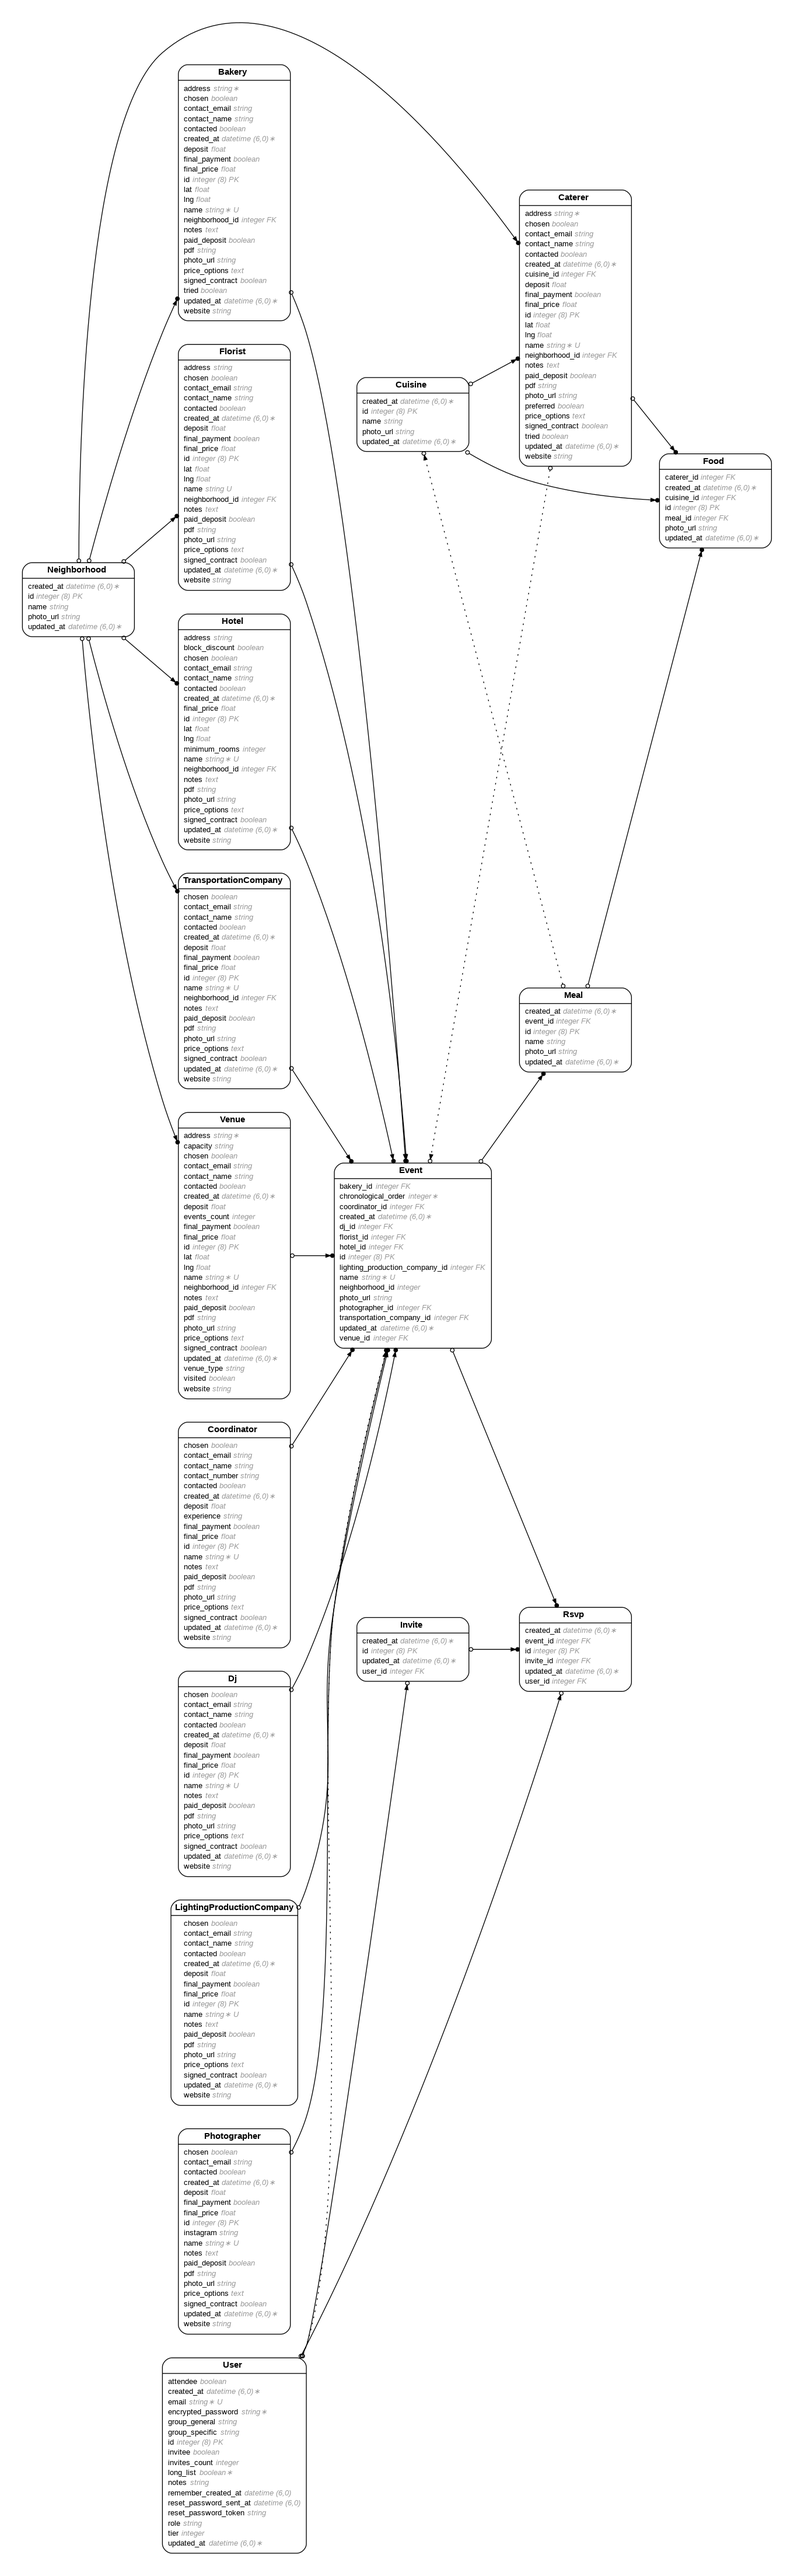
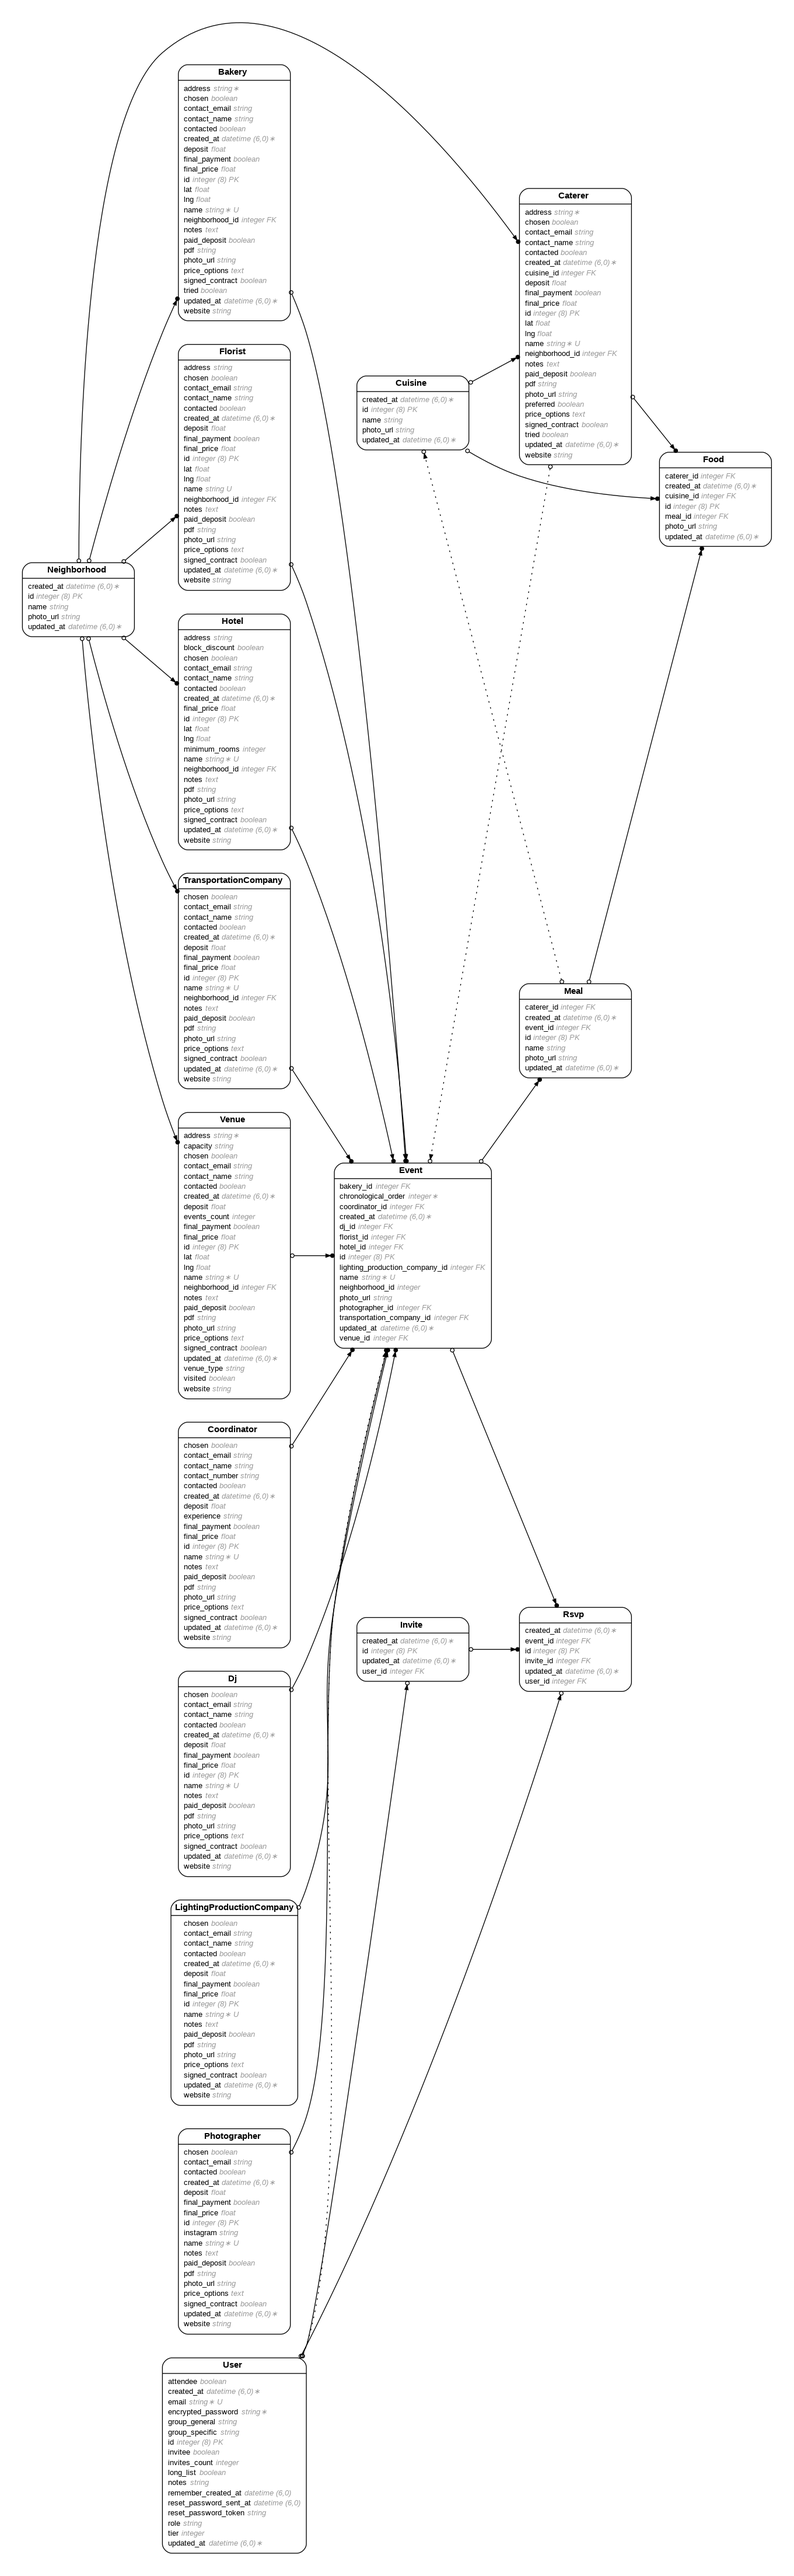
Adding caterer ID to meals, fixing meals index, making Invites and RSVP controllers active again

diff --git a/app/controllers/rsvps_controller.rb b/app/controllers/rsvps_controller.rb
@@ -1,60 +1,60 @@
-# class RsvpsController < ApplicationController
-#   skip_before_action(:authenticate_user!, { :only => [:index] })
+class RsvpsController < ApplicationController
+  skip_before_action(:authenticate_user!, { :only => [:index] })
 
-#   def index
-#     matching_rsvps = Rsvp.all
+  def index
+    matching_rsvps = Rsvp.all
 
-#     @list_of_rsvps = matching_rsvps.order({ :created_at => :desc })
+    @list_of_rsvps = matching_rsvps.order({ :created_at => :desc })
 
-#     render({ :template => "rsvps/index" })
-#   end
+    render({ :template => "rsvps/index" })
+  end
 
-#   def show
-#     the_id = params.fetch("path_id")
+  def show
+    the_id = params.fetch("path_id")
 
-#     matching_rsvps = Rsvp.where({ :id => the_id })
+    matching_rsvps = Rsvp.where({ :id => the_id })
 
-#     @the_rsvp = matching_rsvps.at(0)
+    @the_rsvp = matching_rsvps.at(0)
 
-#     render({ :template => "rsvps/show" })
-#   end
+    render({ :template => "rsvps/show" })
+  end
 
-#   def create
-#     the_rsvp = Rsvp.new
-#     the_rsvp.invite_id = params.fetch("query_invite_id")
-#     the_rsvp.event_id = params.fetch("query_event_id")
-#     the_rsvp.people_id = params.fetch("query_people_id")
+  def create
+    the_rsvp = Rsvp.new
+    the_rsvp.invite_id = params.fetch("query_invite_id")
+    the_rsvp.event_id = params.fetch("query_event_id")
+    the_rsvp.people_id = params.fetch("query_people_id")
 
-#     if the_rsvp.valid?
-#       the_rsvp.save
-#       redirect_to("/rsvps", { :notice => "Rsvp created successfully." })
-#     else
-#       redirect_to("/rsvps", { :alert => the_rsvp.errors.full_messages.to_sentence })
-#     end
-#   end
+    if the_rsvp.valid?
+      the_rsvp.save
+      redirect_to("/rsvps", { :notice => "Rsvp created successfully." })
+    else
+      redirect_to("/rsvps", { :alert => the_rsvp.errors.full_messages.to_sentence })
+    end
+  end
 
-#   def update
-#     the_id = params.fetch("path_id")
-#     the_rsvp = Rsvp.where({ :id => the_id }).at(0)
+  def update
+    the_id = params.fetch("path_id")
+    the_rsvp = Rsvp.where({ :id => the_id }).at(0)
 
-#     the_rsvp.invite_id = params.fetch("query_invite_id")
-#     the_rsvp.event_id = params.fetch("query_event_id")
-#     the_rsvp.people_id = params.fetch("query_people_id")
+    the_rsvp.invite_id = params.fetch("query_invite_id")
+    the_rsvp.event_id = params.fetch("query_event_id")
+    the_rsvp.people_id = params.fetch("query_people_id")
 
-#     if the_rsvp.valid?
-#       the_rsvp.save
-#       redirect_to("/rsvps/#{the_rsvp.id}", { :notice => "Rsvp updated successfully."} )
-#     else
-#       redirect_to("/rsvps/#{the_rsvp.id}", { :alert => the_rsvp.errors.full_messages.to_sentence })
-#     end
-#   end
+    if the_rsvp.valid?
+      the_rsvp.save
+      redirect_to("/rsvps/#{the_rsvp.id}", { :notice => "Rsvp updated successfully."} )
+    else
+      redirect_to("/rsvps/#{the_rsvp.id}", { :alert => the_rsvp.errors.full_messages.to_sentence })
+    end
+  end
 
-#   def destroy
-#     the_id = params.fetch("path_id")
-#     the_rsvp = Rsvp.where({ :id => the_id }).at(0)
+  def destroy
+    the_id = params.fetch("path_id")
+    the_rsvp = Rsvp.where({ :id => the_id }).at(0)
 
-#     the_rsvp.destroy
+    the_rsvp.destroy
 
-#     redirect_to("/rsvps", { :notice => "Rsvp deleted successfully."} )
-#   end
-# end
+    redirect_to("/rsvps", { :notice => "Rsvp deleted successfully."} )
+  end
+end

diff --git a/app/controllers/invites_controller.rb b/app/controllers/invites_controller.rb
@@ -1,56 +1,56 @@
-# class InvitesController < ApplicationController
-#   skip_before_action(:authenticate_user!, { :only => [:index] })
+class InvitesController < ApplicationController
+  skip_before_action(:authenticate_user!, { :only => [:index] })
 
-#   def index
-#     matching_invites = Invite.all
+  def index
+    matching_invites = Invite.all
 
-#     @list_of_invites = matching_invites.order({ :created_at => :desc })
+    @list_of_invites = matching_invites.order({ :created_at => :desc })
 
-#     render({ :template => "invites/index" })
-#   end
+    render({ :template => "invites/index" })
+  end
 
-#   def show
-#     the_id = params.fetch("path_id")
+  def show
+    the_id = params.fetch("path_id")
 
-#     matching_invites = Invite.where({ :id => the_id })
+    matching_invites = Invite.where({ :id => the_id })
 
-#     @the_invite = matching_invites.at(0)
+    @the_invite = matching_invites.at(0)
 
-#     render({ :template => "invites/show" })
-#   end
+    render({ :template => "invites/show" })
+  end
 
-#   def create
-#     the_invite = Invite.new
-#     the_invite.people_id = params.fetch("query_people_id")
+  def create
+    the_invite = Invite.new
+    the_invite.people_id = params.fetch("query_people_id")
 
-#     if the_invite.valid?
-#       the_invite.save
-#       redirect_to("/invites", { :notice => "Invite created successfully." })
-#     else
-#       redirect_to("/invites", { :alert => the_invite.errors.full_messages.to_sentence })
-#     end
-#   end
+    if the_invite.valid?
+      the_invite.save
+      redirect_to("/invites", { :notice => "Invite created successfully." })
+    else
+      redirect_to("/invites", { :alert => the_invite.errors.full_messages.to_sentence })
+    end
+  end
 
-#   def update
-#     the_id = params.fetch("path_id")
-#     the_invite = Invite.where({ :id => the_id }).at(0)
+  def update
+    the_id = params.fetch("path_id")
+    the_invite = Invite.where({ :id => the_id }).at(0)
 
-#     the_invite.people_id = params.fetch("query_people_id")
+    the_invite.people_id = params.fetch("query_people_id")
 
-#     if the_invite.valid?
-#       the_invite.save
-#       redirect_to("/invites/#{the_invite.id}", { :notice => "Invite updated successfully."} )
-#     else
-#       redirect_to("/invites/#{the_invite.id}", { :alert => the_invite.errors.full_messages.to_sentence })
-#     end
-#   end
+    if the_invite.valid?
+      the_invite.save
+      redirect_to("/invites/#{the_invite.id}", { :notice => "Invite updated successfully."} )
+    else
+      redirect_to("/invites/#{the_invite.id}", { :alert => the_invite.errors.full_messages.to_sentence })
+    end
+  end
 
-#   def destroy
-#     the_id = params.fetch("path_id")
-#     the_invite = Invite.where({ :id => the_id }).at(0)
+  def destroy
+    the_id = params.fetch("path_id")
+    the_invite = Invite.where({ :id => the_id }).at(0)
 
-#     the_invite.destroy
+    the_invite.destroy
 
-#     redirect_to("/invites", { :notice => "Invite deleted successfully."} )
-#   end
-# end
+    redirect_to("/invites", { :notice => "Invite deleted successfully."} )
+  end
+end

diff --git a/db/schema.rb b/db/schema.rb
@@ -10,7 +10,7 @@
 #
 # It's strongly recommended that you check this file into your version control system.
 
-ActiveRecord::Schema[7.1].define(version: 2024_12_11_210621) do
+ActiveRecord::Schema[7.1].define(version: 2024_12_13_215403) do
   # These are extensions that must be enabled in order to support this database
   enable_extension "plpgsql"
 
@@ -221,6 +221,7 @@ ActiveRecord::Schema[7.1].define(version: 2024_12_11_210621) do
     t.datetime "updated_at", null: false
     t.string "name"
     t.string "photo_url"
+    t.integer "caterer_id"
   end
 
   create_table "neighborhoods", force: :cascade do |t|

diff --git a/app/controllers/events_controller.rb b/app/controllers/events_controller.rb
@@ -4,7 +4,7 @@ class EventsController < ApplicationController
   def index
     matching_events = Event.all
 
-    @list_of_events = matching_events.order({ :created_at => :desc })
+    @list_of_events = matching_events.order({ :chronological_order => :asc })
 
     @list_of_bakeries = Bakery.all.order({ :name => :asc })
     @list_of_coordinators = Coordinator.all.order({ :name => :asc })

diff --git a/app/models/meal.rb b/app/models/meal.rb
@@ -7,6 +7,7 @@
 #  photo_url  :string
 #  created_at :datetime         not null
 #  updated_at :datetime         not null
+#  caterer_id :integer
 #  event_id   :integer
 #
 class Meal < ApplicationRecord

diff --git a/db/migrate/20241213215403_add_caterer_id_to_meals.rb b/db/migrate/20241213215403_add_caterer_id_to_meals.rb
@@ -1,0 +1,5 @@
+class AddCatererIdToMeals < ActiveRecord::Migration[7.1]
+  def change
+    add_column :meals, :caterer_id, :integer
+  end
+end
